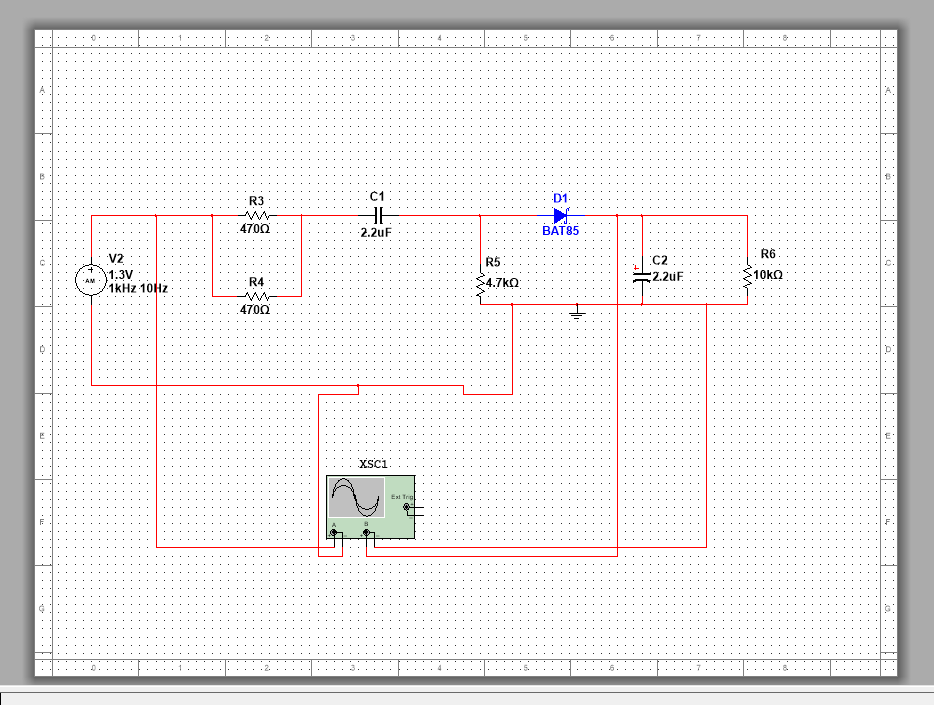
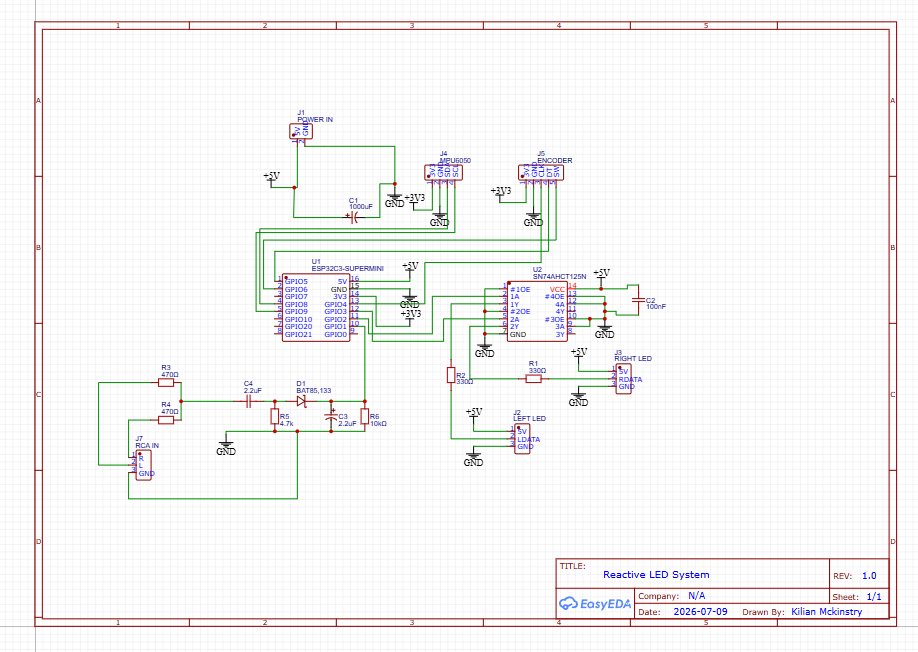
Confirm C4/D1/J7 parts received, ready for v2 assembly
Kilian confirmed all three previously-ordered parts (non-polarized C4,
BAT85 D1, JST-XH J7 connector set) have arrived alongside the board.

diff --git a/docs/audio-reactive-led-plan.md b/docs/audio-reactive-led-plan.md
@@ -214,10 +214,10 @@ Using a spare ESP32-C3 module and the real addressable LED strip found for testi
 
 Decided against a standalone breakout board — the audio conditioning circuit will instead be added directly to a new PCB revision, following the same EasyEDA → JLCPCB process already used for the original board (including its GPIO4-fault replacement revision). Firmware development happens in this phase too, once the board's been ordered — no need to wait idle for manufacturing/shipping when the new mode can be written and bench-tested against Phase 2's logic in parallel.
 
-**Parts sourced** (everything else needed was already on hand from Phase 2 bench testing or the original `v1` build):
-- Coupling capacitor (`C4` on the real board) — genuinely **non-polarized** (ceramic or film, not electrolytic), ~2.2–4.7µF, 16V+ rating. **Ordered.**
-- JST-XH 3-pin connector set (male PCB header + female housing + crimp pins), 2.54mm pitch, matching the J2–J5 connectors already on the board — for `J7`, carrying Front Left, Front Right, and shield/ground from the RCA tap. **Ordered.**
-- D1 — a **BAT85** Schottky diode, replacing the 1N4007 for production — see the diode note above. **Ordered.**
+**Parts sourced and in hand** (everything else needed was already on hand from Phase 2 bench testing or the original `v1` build):
+- Coupling capacitor (`C4` on the real board) — genuinely **non-polarized** (ceramic or film, not electrolytic), ~2.2–4.7µF, 16V+ rating. **Received.**
+- JST-XH 3-pin connector set (male PCB header + female housing + crimp pins), 2.54mm pitch, matching the J2–J5 connectors already on the board — for `J7`, carrying Front Left, Front Right, and shield/ground from the RCA tap. **Received.**
+- D1 — a **BAT85** Schottky diode, replacing the 1N4007 for production — see the diode note above. **Received.**
 
 The EasyEDA schematic/layout is designed and verified; the board was ordered from JLCPCB (Global Standard Direct Line shipping) and has now arrived, visually inspected (bare-board photos taken), assembly not yet started. See [docs/multisim-simulation.md](multisim-simulation.md) for the Multisim work behind the R5 correction below. The `v4.0` firmware (below) has been drafted in parallel and compiles clean, though it hasn't been bench-tested yet — the conditioning circuit parts are with the board rather than available on the bench.
 

diff --git a/hardware/audio-breakout.md b/hardware/audio-breakout.md
@@ -163,9 +163,9 @@ Bridge off both signal wires and the ground in parallel at the radio's RCA harne
 
 ## Open Items (Phase 3, in progress — board arrived from JLCPCB, not yet assembled)
 
-- [x] Source a BAT85 Schottky diode (or equivalent) for D1 on the production board — replacing the 1N4007 the testing circuit still uses, see the note above. Ordered.
-- [x] Source a genuinely non-polarized capacitor for C4 (ceramic or film, ~2.2–4.7µF) — the earlier back-to-back-electrolytics attempt was the wrong component for this job, not a wiring fault, see the note above. Ordered.
-- [x] Source a JST-XH 3-pin connector set for the new RCA input (`J7`), matching the board's existing J2–J5 style. Ordered.
+- [x] Source a BAT85 Schottky diode (or equivalent) for D1 on the production board — replacing the 1N4007 the testing circuit still uses, see the note above. Received.
+- [x] Source a genuinely non-polarized capacitor for C4 (ceramic or film, ~2.2–4.7µF) — the earlier back-to-back-electrolytics attempt was the wrong component for this job, not a wiring fault, see the note above. Received.
+- [x] Source a JST-XH 3-pin connector set for the new RCA input (`J7`), matching the board's existing J2–J5 style. Received.
 - [x] Clone the `v1` EasyEDA project rather than editing it in place, and remove `J6_SWITCH` (never populated — see the note above)
 - [x] Regenerate the production schematic image to show D1 as BAT85 and the renumbered R3/R4/R5/C3/C4 designators — the testing schematic is already current and doesn't need this renumbering, since it isn't built from real EasyEDA designators
 - [x] Design the `v2` schematic/layout in EasyEDA — DRC clean (0 errors), schematic connectivity manually verified against the exported netlist (Node S/A/B topology and GND all match this document); `J7`'s Front Left/Front Right wiring confirmed matching R3=Left/R4=Right
